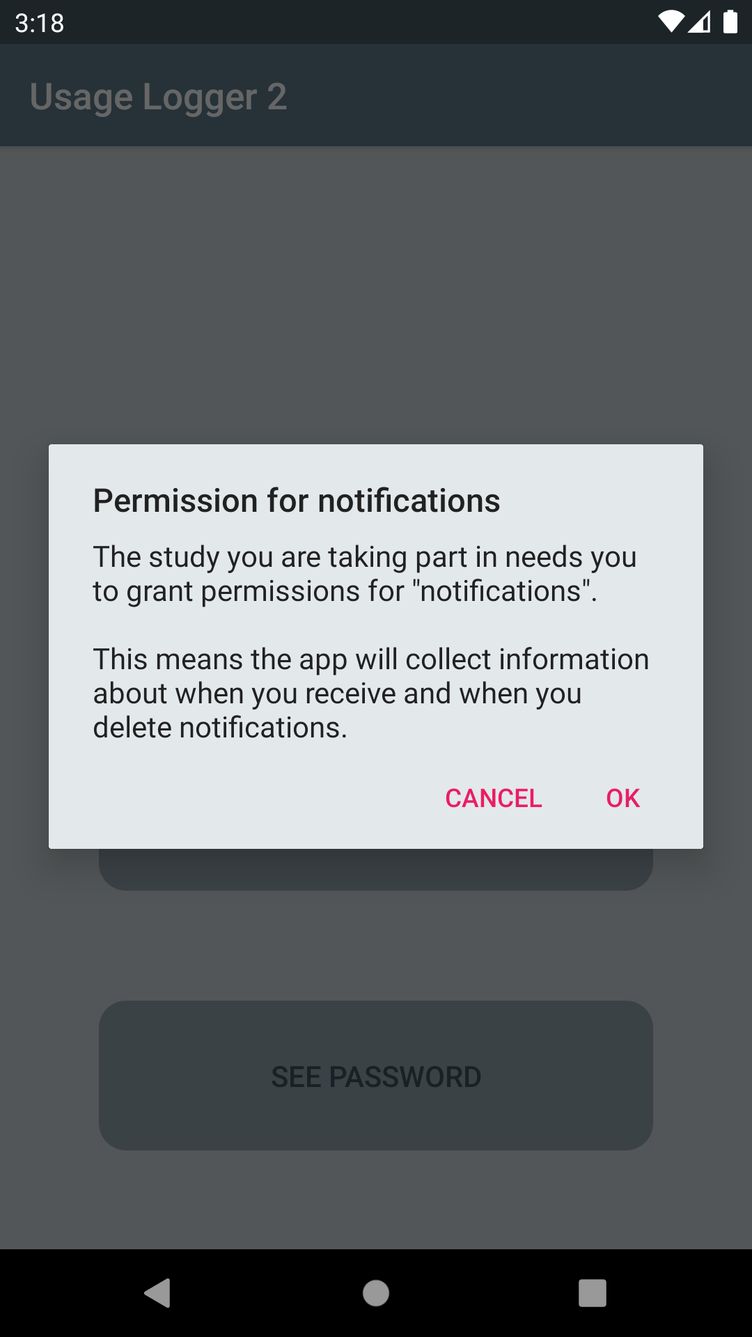
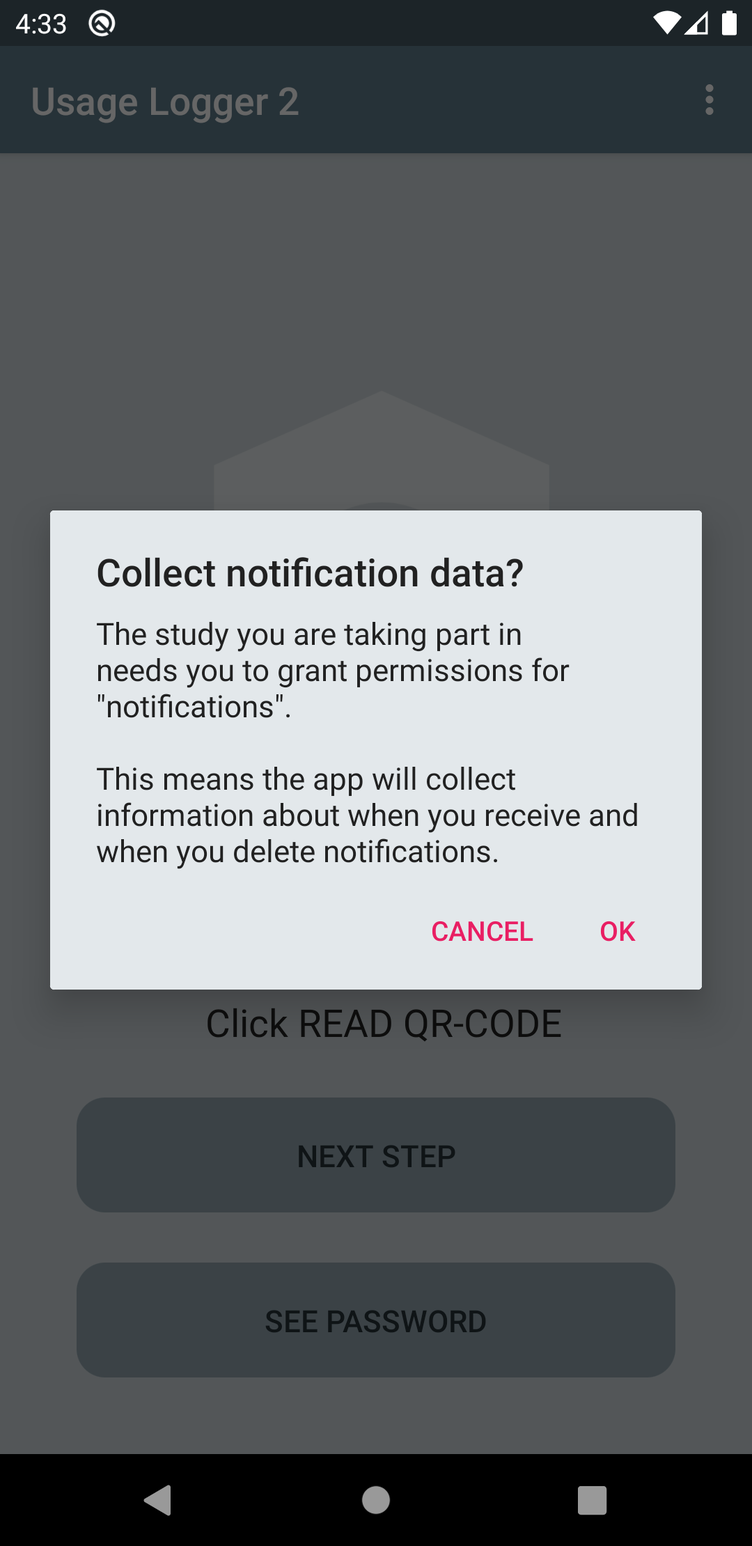
updated walkthrough text and screenshots

diff --git a/websites/walkthrough/index.html b/websites/walkthrough/index.html
@@ -36,16 +36,14 @@
 
     <div class="new_section">
         <h2>Introduction</h2>
-        <p>Usage Logger 2 is an Android app that records or extracts data about how a person uses their smartphone. Primarily developed to assist with psychological research and behavioural science more generally, the app can be customised to perform a number of different functions. This includes the ability to extract historical data about previous (retrospective) usage from the previous 5 days.</p>
+        <p>Usage Logger 2 is an Android app that records or extracts data about how a person uses their smartphone. Primarily developed to assist with psychological research and behavioural science more generally, the app can be customised to perform a number of different functions. This includes the ability to extract historical data about previous (retrospective) usage from the previous 1-5 days.</p>
 
         <h3>Publications</h3>
+        <p>Geyer, K., Ellis, D. A., Shaw, H., Davidson, B. I., & Keil, T. F. (2023, March 7). <em>Open source smartphone app and tools for measuring, quantifying, and visualizing technology use</em>. PsyArXiv. doi: <a href="https://doi.org/10.31234/osf.io/eqhfa">10.31234/osf.io/eqhfa</a></p>
         <p>Geyer, K., Ellis, D.A., Shaw, H. and Davidson, B. I. (2022) Open-source smartphone app and tools for measuring, quantifying, and visualizing technology use. <em>Behavior Research Methods</em>, 54(1), 1-12. doi: <a href="https://link.springer.com/article/10.3758/s13428-021-01585-7">10.3758/s13428-021-01585-7</a></p>
-        <p>Geyer, K., Ellis, D. A., Shaw, H., & Davidson, B. I. (2020, July 21). <em>Open source smartphone app and tools for measuring, quantifying, and visualizing technology use</em>. PsyArXiv. doi: <a href="https://doi.org/10.31234/osf.io/eqhfa">10.31234/osf.io/eqhfa</a></p>
-
         <h3>Other resources</h3>
         <ul>
             <li>Android App on <a href="https://play.google.com/store/apps/details?id=psych.sensorlab.usagelogger2">Google Play Store</a>.</li>
-            <li>Developer <a href="https://www.youtube.com/watch?v=VET3PkaNayo&amp;feature=youtu.be">video</a> about the app.</li>
             <li><a href="../customise/">Customise</a> what data the app collects.</li>
             <li><a href="../decrypt/">Decrypt</a> collected data.</li>
             <li><a href="https://github.com/daviaellis/UsageLoggerPublished/tree/master/Data">Sample data and scripts</a>  for analysis.</li>
@@ -65,9 +63,9 @@
         <h4>1) Contextual Data</h4>
         <p>Contextual data provides a researcher with a snapshot of what software is installed on the smartphone. Data captured can include:</p>
         <ul>
-            <li>Apps installed: What apps are installed on the device.</li>
-            <li>Permissions requested: What permissions have been requested by which apps. Permissions provide access to particular restricted data like phone call logs or location. See <a href="https://developer.android.com/guide/topics/permissions/overview" target="_blank">here</a> for more information.</li>
-            <li>Response to permission request: Has the user provided the permission or not.</li>
+            <li>Apps installed: What apps are installed on the device?</li>
+            <li>Permissions requested: What permissions have been requested by which apps? Permissions provide access to particular restricted data like phone call logs or location. See <a href="https://developer.android.com/guide/topics/permissions/overview" target="_blank">here</a> for more information.</li>
+            <li>Response to permission request: Has the user provided the permission or not?</li>
         </ul>
 
         <h4>2) Continuous Logging</h4>
@@ -85,11 +83,11 @@
 
         <h3>Customise Order</h3>
         <p>Customise the order in which the data is collected by dragging and dropping the text on the right hand of the screen that appears after you have demonstrated that you want a piece of data collected.</p>
-        <p>If you have fully populated the forms in the website, it might look something like this.</p>
+        <p>If you have checked all the options on the website, it may look something like this.</p>
         <p><a data-fslightbox="gallery" href="../assets/img/walkthrough/custom_options.png"><img src="../assets/img/walkthrough/custom_options.png" alt="custom_options" class="app_img_large"></a></p>
 
         <h3>Create QR-Code</h3>
-        <p>Clicking the 'Create QR-Code' button will generate a QR-code image. This is required to customise the app. Users must scan the QR-code from within the app, which will then start the data collection process. The QR-code can also be downloaded, which is useful if you want to reuse the same configuration settings in the future.</p>
+        <p>Clicking the 'Create QR-Code' button will generate a QR-Code image. This is required to customise the app. Users must scan the QR-Code from within the app, which will then start the data collection process. The QR-Code can also be downloaded, which is helpful if you want to reuse the same configuration settings in the future.</p>
     </div>
 
     <div class="new_section" id="app">
@@ -98,55 +96,77 @@
         <h2>Android App</h2>
         <p>The app can be found on Google Play Store:<br>
         <a href='https://play.google.com/store/apps/details?id=psych.sensorlab.usagelogger2'><img alt='Get it on Google Play' src='../assets/img/walkthrough/google-play-badge.png' width="220" /></a></p>
-        <p>All participants will need to install this app by going to page in the google play store pressing install. When opening the app it should look like this.</p>
+        <p>Users can install the app by visiting the google play store listing. When opening the app it will first display a message informing the user that the app is only intended for scientific research.</p>
         <p><a data-fslightbox="gallery" href="../assets/img/walkthrough/home.png"><img src="../assets/img/walkthrough/home.png" alt="home" class="app_img"></a></p>
-        <p>The participant will be informed that this app is only intended for scientific research.</p>
-        <p>Then the phone will request access to the camera permission. This is essential to scan the QR-Code. </p>
-        <p><a data-fslightbox="gallery" href="../assets/img/walkthrough/camera_perm.png"><img src="../assets/img/walkthrough/camera_perm.png" alt="camera_perm" class="app_img"></a></p>
-        <p>What appears next will be dependent on the type of phone that the participant has, newer phones will ask if permission should only be granted this time or every time when using this app; either is acceptable. Afterwards participants will be asked to press the read QR-Code button to scan the QR-Code required (produced by the customisation website; see above).</p>
-        <p>After the QR-Code is scanned, it will inform the participant again that this is only intended for use for scientific research</p>
-        <p>Then the participant will receive a message about what data will be collected by the app</p>
-        <p><a data-fslightbox="gallery" href="../assets/img/walkthrough/instructions.png"><img src="../assets/img/walkthrough/instructions.png" alt="instructions" class="app_img"></a></p>
-        <p>Another message will appear describing the data security to the participant. For a detailed guide of the security please see the preprint.</p>
-        <p><a data-fslightbox="gallery" href="../assets/img/walkthrough/data_security.png"><img src="../assets/img/walkthrough/data_security.png" alt="data_security" class="app_img"></a></p>
-        <p>The participant will be informed about all the permission that is required to carry out the data collection. This will be either Usage permission or notification listing permission or both. </p>
-        <p>A password will then appear. This can be seen again at any point when the participant presses on the "See password" button.</p>
-        <p><a data-fslightbox="gallery" href="../assets/img/walkthrough/password.png"><img src="../assets/img/walkthrough/password.png" alt="password" class="app_img"></a></p>
+        <p>The user is then informed that the app would like to use the device's built-in camera. For this, permission to access the device's camera is required. This permission is essential in order to scan the QR-Code.</p>
+        <p>
+            <a data-fslightbox="gallery" href="../assets/img/walkthrough/camera_perm.png"><img src="../assets/img/walkthrough/camera_perm.png" alt="camera_perm" class="app_img"></a>
+            <a data-fslightbox="gallery" href="../assets/img/walkthrough/camera_perm2.png"><img src="../assets/img/walkthrough/camera_perm2.png" alt="camera_perm2" class="app_img"></a>
+        </p>
+        <p>Users will then be asked to press the "READ QR-CODE" button to scan the QR-Code provided by the researcher (produced by the customisation website; see above).</p>
+        <p>
+            <a data-fslightbox="gallery" href="../assets/img/walkthrough/next_qrcode.png"><img src="../assets/img/walkthrough/next_qrcode.png" alt="read_qrcode" class="app_img"></a>
+            <a data-fslightbox="gallery" href="../assets/img/walkthrough/qr_code.png"><img src="../assets/img/walkthrough/qr_code.png" alt="qr_code" class="app_img"></a>
+        </p>
+        <p>After the QR-Code is scanned, the user will again be informed that data collection is only intended for scientific research. They will also be informed about what data is going to be collected by the app (which depends on how the QR-Code was previously configured). The image below shows a message that would be displayed for a configuration that collects all three data types.</p>
+        <p>
+            <a data-fslightbox="gallery" href="../assets/img/walkthrough/attention.png"><img src="../assets/img/walkthrough/attention.png" alt="attention" class="app_img"></a>
+            <a data-fslightbox="gallery" href="../assets/img/walkthrough/instructions.png"><img src="../assets/img/walkthrough/instructions.png" alt="instructions" class="app_img"></a>
+        </p>
 
-        <h3>Permissions</h3>
-        <p>We will then have to accept all the permissions involved:</p>
+        <h3>Data Security and Permissions</h3>
+        <p>Next, the user will be informed about data security. For a detailed guide of the security features implemented by the app, please consult the preprint and/or publication.</p>
+        <p>
+            <a data-fslightbox="gallery" href="../assets/img/walkthrough/data_security.png"><img src="../assets/img/walkthrough/data_security.png" alt="data_security" class="app_img"></a>
+            <a data-fslightbox="gallery" href="../assets/img/walkthrough/req_perms.png"><img src="../assets/img/walkthrough/req_perms.png" alt="req_permissions" class="app_img"></a>
+        </p>
+
+        <p>Then, information about which permissions are required to carry out the data collection is shown. This may include the collection of usage and notification data and permission to show notifications (* "show notification" permissions are only requested from Android 13 and above).</p>
+        <p>The user is forwarded to the settings that allow them to permit the required permissions. The look and feel of the permission settings may vary slightly depending on the Android version installed.</p>
 
         <h3>Notification permission</h3>
-        <p>For the notification permission, the participant will initially informed what is involved.</p>
-        <p><a data-fslightbox="gallery" href="../assets/img/walkthrough/req_note_perm.png"><img src="../assets/img/walkthrough/req_note_perm.png" alt="req_note_perm" class="app_img"></a></p>
-        <p>Then they will have to select from the apps that request the permission notification logger</p>
-        <p><a data-fslightbox="gallery" href="../assets/img/walkthrough/notification_access.png"><img src="../assets/img/walkthrough/notification_access.png" alt="notification_access" class="app_img"></a></p>
-        <p>On selecting usage logger, a screen like this or something similar should appear</p>
-        <p><a data-fslightbox="gallery" href="../assets/img/walkthrough/notification_access2.png"><img src="../assets/img/walkthrough/notification_access2.png" alt="notification_access2" class="app_img"></a></p>
-        <p>The participant will then come into a screen where they only see a checkbox that say "Allow notification access". </p>
-        <p><a data-fslightbox="gallery" href="../assets/img/walkthrough/notification_access3.png"><img src="../assets/img/walkthrough/notification_access3.png" alt="notification_access3" class="app_img"></a></p>
-        <p>A warning message will appear from Android informing of all the potential security problems that emerge as a result. While, this permission provides wide ranging capabilities, this app only record which app is providing notifications and when.</p>
-        <p>After the participant enables this permission they will return to the app, if they press back.<b> Please do not exit the app to the home screen</b> this may interfere with the running of the app. Instead, just press back after you have accepted this permission</p>
+        <p>For the notification permission, the user will is informed of what this involves. They will then have to select enable "notification access" for the Usage Logger app.</p>
+        <p>
+            <a data-fslightbox="gallery" href="../assets/img/walkthrough/req_note_perm.png"><img src="../assets/img/walkthrough/req_note_perm.png" alt="req_note_perm" class="app_img"></a>
+            <a data-fslightbox="gallery" href="../assets/img/walkthrough/notification_access.png"><img src="../assets/img/walkthrough/notification_access.png" alt="notification_access" class="app_img"></a
+        ></p>
+        <p>On enabling "notification access" for the Usage Logger app, a warning message may appear informing the user of all potential security problems that emerge as a result. While this permission provides wide-ranging capabilities, this app only records when and which app is providing notifications. Here, the user will have to confirm the permission request by selecting "Allow".</p>
+        <p>
+            <a data-fslightbox="gallery" href="../assets/img/walkthrough/notification_access3.png"><img src="../assets/img/walkthrough/notification_access3.png" alt="notification_access3" class="app_img"></a>
+            <a data-fslightbox="gallery" href="../assets/img/walkthrough/notification_access2.png"><img src="../assets/img/walkthrough/notification_access2.png" alt="notification_access2" class="app_img"></a>
+        </p>
+        <p>After the user enables this permission, they need to return to the app. This can be achieved by pressing the back arrow at the bottom of the screen (depending on the Android OS, in some cases the back button may be at the top of the screen). <b>Important:</b> The user should not exit the app to the home screen, as this may interfere with the running of the app. Instead, they should just press back after having accepted this permission.</p>
 
         <h3>Usage permission</h3>
-        <p>When back at the app, if the participant is required to give the usage permission (which allows for monitoring of the app usage) they will see a pop up (like below) asking them to provide usage permission. If usage permission usage is not required then the app will simply start working (described below).</p>
-        <p>The usage access permission works in a very similar fashion as notification permission. The participants will initially given a message about what permission is required and what it is used for. </p>
-        <p><a data-fslightbox="gallery" href="../assets/img/walkthrough/req_use_perm.png"><img src="../assets/img/walkthrough/req_use_perm.png" alt="req_usage_perm" class="app_img"></a></p>
-        <p>Then the participant will have to click on Usage Logger from the list of apps that want this permission. And then click on permit usage access. No message will appear on doing this.</p>
-        <p><a data-fslightbox="gallery" href="../assets/img/walkthrough/usage_perm2.png"><img src="../assets/img/walkthrough/usage_perm2.png" alt="usage_perm2" class="app_img"></a></p>
-        <p>After the participant enables this permission they will return to the app, if they press back.<b> Please do not exit the app to the home screen</b> this may interfere with the running of the app. Instead, just press back after you have accepted this permission</p>
+        <p>Upon returning to the app, the user may be requested to allow usage access. If usage permission is not requested, then the app will simply start working (as described below). Similar to the notification permission, the users will initially be shown a message about what permission is required and what it is used for. After confirming the message, the user must select the Usage Logger listing in order to grant usage permission for this app.</p>
+        <p>
+            <a data-fslightbox="gallery" href="../assets/img/walkthrough/usage_perm.png"><img src="../assets/img/walkthrough/usage_perm.png" alt="usage_perm2" class="app_img"></a>
+            <a data-fslightbox="gallery" href="../assets/img/walkthrough/usage_perm2.png"><img src="../assets/img/walkthrough/usage_perm2.png" alt="usage_perm2" class="app_img"></a>
+        </p>
+
+        <p>Then the user will need to enable "Permit usage access" and return to the app as before. This can be achieved by pressing the back arrow twice at the bottom of the screen (depending on the Android OS, in some cases, the back button may be at the top of the screen).</p>
+        <p>
+            <a data-fslightbox="gallery" href="../assets/img/walkthrough/usage_perm3.png"><img src="../assets/img/walkthrough/usage_perm3.png" alt="usage_perm3" class="app_img"></a>
+            <a data-fslightbox="gallery" href="../assets/img/walkthrough/usage_perm4.png"><img src="../assets/img/walkthrough/usage_perm4.png" alt="usage_perm4" class="app_img"></a>
+        </p>
+        <p>Upon returning to the app, the user should now see a confirmation message informing them that the setup is now complete.</p>
+        <p>
+            <a data-fslightbox="gallery" href="../assets/img/walkthrough/setup_complete.png"><img src="../assets/img/walkthrough/setup_complete.png" alt="setup_complete" class="app_img"></a>
+        </p>
 
         <h3>Running of the app</h3>
-        <p>Because of the customisation website output (see above), the app will collect contextual data, then usage data and finally initiate contextual logging. As a result, the app very quickly recorded the context and past usage. Messages may quickly appear in the background about what is being recorded but this will only last for a second or so. </p>
-        <p><a data-fslightbox="gallery" href="../assets/img/walkthrough/contextual_data.png"><img src="../assets/img/walkthrough/contextual_data.png" alt="contextual_data" class="app_img"></a></p>
-        <p>If the app had been customised to perform the continual logging of smartphone usage then the app would start doing this. When the participant presses next steps, continual recording stops and the rest of the data is collected. </p>
-        <p>When the participant sees a screen denoting that "Status: Phone usage monitoring ongoing". Then the data is being collected in the background. There is also a notification in the status bar which informs the participant that data is being collected in the background. </p>
-        <p><a data-fslightbox="gallery" href="../assets/img/walkthrough/continuous_usage.png"><img src="../assets/img/walkthrough/continuous_usage.png" alt="continuous_usage" class="app_img"></a></p>
-        <p>When the data collecting is finished, the participant should press the "next step" button and a popup will inform them the final stage is to send the email to the researcher and do they wish to proceed? If they click OK, they will be asked to select an app to supply the encrypted pdf to. We recommend Gmail.</p>
-        <p><a data-fslightbox="gallery" href="../assets/img/walkthrough/send_email.png"><img src="../assets/img/walkthrough/send_email.png" alt="send_email" class="app_img"></a></p>
-        <p><a data-fslightbox="gallery" href="../assets/img/walkthrough/send_data_to.png"><img src="../assets/img/walkthrough/send_data_to.png" alt="send_data_to" class="app_img"></a></p>
-        <p>These are various apps that can be shared with but we have only tested with gmail.</p>
-        <p>The participant needs to communicate the password with the researcher. This should not be done via gmail or some other platform that is also used to send the data. If that method of communication is comprised then the participant's data is quite possibly reported. We recommend using Qualtrics, MTurk or some other platform used to securely record the response for questionnaires. </p>
+        <p>Depending on how the app was customised (see above), the app may collect contextual and past usage data and continiously monitor and log current use. As a result, the app quickly scans the phone to collect contextual and past usage data. Therefore, messages to show which data is being collected may only be shown very briefly. </p>
+        <p>
+            <a data-fslightbox="gallery" href="../assets/img/walkthrough/contextual_data.png"><img src="../assets/img/walkthrough/contextual_data.png" alt="contextual_data" class="app_img"></a>
+            <a data-fslightbox="gallery" href="../assets/img/walkthrough/continuous_usage.png"><img src="../assets/img/walkthrough/continuous_usage.png" alt="continuous_usage" class="app_img"></a>
+        </p>
+        <p>The app will continue to show that it is currently collecting data, if continuous logging is configured. This data is collected in the background, even if the user closes the app. The user is informed of this through a notification in the status bar.</p>
+        <p>When the user presses "NEXT STEP," logging stops, and the rest of the data is collected. A popup will then ask the user to confirm that they wish to end data collection and send the data to the researcher. Upon confirmation, they will be asked to select an appropriate app (which apps are shown depends on which apps are installed on the device) to send the encrypted data files (PDFs) to the researcher.</p>
+        <p>
+            <a data-fslightbox="gallery" href="../assets/img/walkthrough/send_email.png"><img src="../assets/img/walkthrough/send_email.png" alt="send_email" class="app_img"></a>
+            <a data-fslightbox="gallery" href="../assets/img/walkthrough/send_data_to.png"><img src="../assets/img/walkthrough/send_data_to.png" alt="send_data_to" class="app_img"></a>
+        </p>
+        <p>After sending the data, the user needs to communicate the password to the researcher in order for them to be able to decrypt the data. The password is shown to the user by pressing the button "SEE PASSWORD." The password should not be sent via Email or any other platform that was also used to send the data. Qualtrics or some other secure platform can be used to record this information.</p>
     </div>
 
     <div class="new_section" id="decryption">
@@ -154,17 +174,17 @@
         <div style="float:right"><a href="#intro">top</a></div>
         <h2>Decryption and Conversion</h2>
         <p>The decrypt and convert webpage can be found <a href="https://usagelogger2.netlify.com/decrypt/">here</a>.</p>
-        <p>At this point, the data has been collected and sent to the researcher. However it still needs to be decrypted and converted to a suitable file format. While, you can open the file then enter the password and have access to the pdf table. The pdf table format of the data is not easy to analyse, it needs to be converted into a csv or other format. Various R and python packages that are employed can be used. But the packages don't seem to function well with the usage logger output. This is because those packages typically do not pay attention to the cell division and instead focus on what is on the same line. Therefore, if a long app name requires two lines then half of the name may be entered into a different row and therefore, it can be double-counted. </p>
-        <p>This website, handles the decryption process specifically for the output of usage logger to avoid such errors. We strongly advise that you use it to decrypt your data</p>
+        <p>At this point, the data has been collected and sent to the researcher. However, it still needs to be decrypted and converted to a suitable file format. While you can open the file by entering the password, the table format of the data is not easy to analyse. It is best converted to a CSV or other format. Various R and python packages can be used, but most packages don't seem to function well with the Usage Logger output. This is because these packages typically do not support two-column or multi-line data. Therefore, if a long app name requires two lines, half the text may be listed on a new line and may thus be counted twice.</p>
+        <p>This website handles the decryption process specifically for the output of the Usage Logger.</p>
         <p><a data-fslightbox="gallery" href="../assets/img/walkthrough/decrypt_website.png"><img src="../assets/img/walkthrough/decrypt_website.png" alt="decrpyt_website" class="app_img_large"></a></p>
-        <p>To decrypt the data that you have collected from usage logger simply click on 'select PDF' button, if you have chosen a pdf file then you will be transported to a screen where you will be asked to insert a password. Please supply the associated password, after this process is complete you should automatically have a csv file dropped into your folder with the cleaned data. It will have the same name as the file which you have supplied it. </p>
+        <p>To decrypt the Usage Logger data, simply click on the 'Select PDF' button. Once you have selected a PDF file from your computer, you will be prompted to insert a password. Upon entering the correct password, the PDF is automatically converted to a CSV file and downloaded to your standard browser download folder.</p>
     </div>
 
     <div class="new_section" id="analysis">
 
         <div style="float:right"><a href="#intro">top</a></div>
         <h2>Analysis</h2>
-        <p>The analysis can be carried out in python and R. For python there are notebooks that are in github which are analyse either the :</p>
+        <p>The analysis can be carried out in python and R. For Python, there are <a href="https://jupyter.org/">Jupyter</a> Notebooks available in the Github repository. These can be used to analyse:</p>
         <ul>
             <li><a href="https://github.com/davidaellis/UsageLoggerPublished/tree/master/sample%20data%20and%20scripts/Python/context_analysis.ipynb">Contextual Data Analysis</a></li>
             <li><a href="https://github.com/davidaellis/UsageLoggerPublished/tree/master/sample%20data%20and%20scripts/Python/continuous_analysis.ipynb">Continuous Logging Analysis</a></li>
@@ -176,7 +196,7 @@
     <div class="new_section" id="contact">
         <div style="float:right"><a href="#intro">top</a></div>
         <h2>Contact</h2>
-        <p>In case of problems or questions, please contact Dr. Heather Shaw, <a href="mailto:h.shaw5@lancaster.ac.uk">h.shaw5@lancaster.ac.uk</a>.</p>
+        <p>In case of problems or questions, please contact Dr. Heather Shaw at <a href="mailto:h.shaw5@lancaster.ac.uk">h.shaw5@lancaster.ac.uk</a>.</p>
     </div>
 
 </div>

diff --git a/UPDATES.md b/UPDATES.md
@@ -1,4 +1,4 @@
-### Last updated 07/03/2023
+### Last updated 15/03/2023
 
 ## Updates to App
 - added back missing QR Scanner activity
